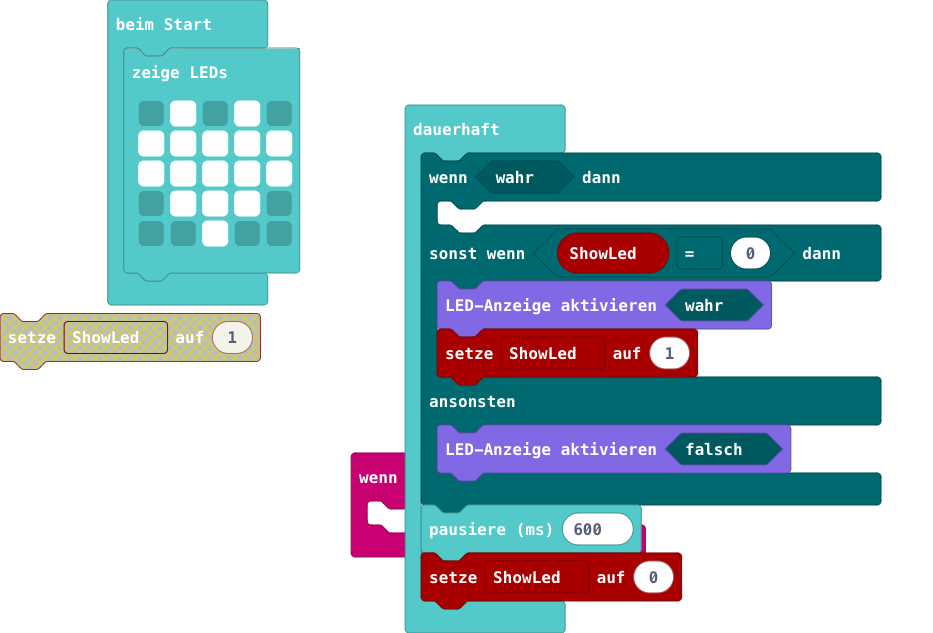
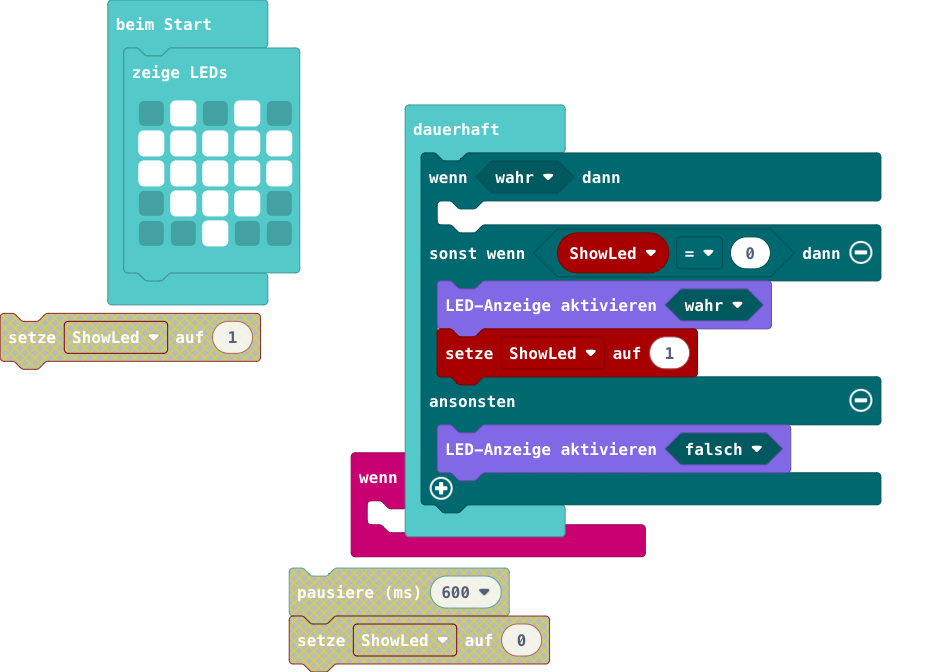
Aktualisiere main.blocks, main.ts

Changed region(s): [[0.3108, 0.1501, 0.9636, 1.0], [0.0, 0.03, 0.3419, 0.6003], [0.373, 0.6603, 0.4352, 0.7204]]

diff --git a/main.ts b/main.ts
@@ -18,6 +18,4 @@ basic.forever(function () {
     } else {
         led.enable(false)
     }
-    basic.pause(600)
-    ShowLed = 0
 })
